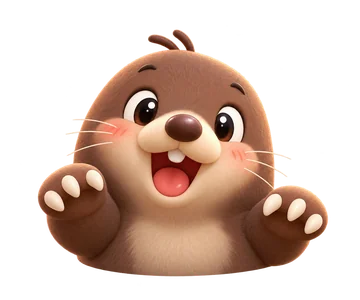
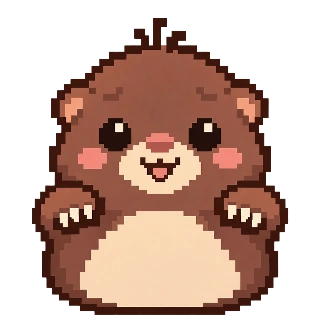
Refresh mole sprite and game covers with pixel artwork

diff --git a/app/src/pages/WhackGame/WhackGame.css b/app/src/pages/WhackGame/WhackGame.css
@@ -65,11 +65,35 @@
   position: relative;
   aspect-ratio: 1 / 1;
   border: none;
-  border-radius: var(--radius-lg);
-  background-color: var(--surface-sunken);
+  border-radius: var(--radius-sm);
+  background-color: #e4edcf;
   overflow: hidden;
   cursor: pointer;
-  box-shadow: inset 0 -6px 14px rgba(20, 27, 43, 0.06);
+  box-shadow: inset 0 -4px 0 #b8ca99;
+  isolation: isolate;
+  padding: 0;
+  touch-action: manipulation;
+}
+.whack__hole::before {
+  content: '';
+  position: absolute;
+  left: 10%;
+  right: 10%;
+  bottom: 11%;
+  height: 26%;
+  background-color: #5e3c30;
+  clip-path: polygon(0 30%, 10% 30%, 10% 15%, 25% 15%, 25% 0, 75% 0, 75% 15%, 90% 15%, 90% 30%, 100% 30%, 100% 75%, 90% 75%, 90% 90%, 10% 90%, 10% 75%, 0 75%);
+}
+.whack__hole::after {
+  content: '';
+  position: absolute;
+  top: 19%;
+  left: 13%;
+  width: 4px;
+  height: 8px;
+  background-color: #a4b882;
+  box-shadow: 4px 4px 0 #a4b882, 8px 0 0 #a4b882;
+  pointer-events: none;
 }
 .whack__hole:disabled {
   cursor: default;
@@ -81,27 +105,32 @@
   left: 0;
   right: 0;
   bottom: 0;
-  height: 20%;
-  background-color: var(--surface-high);
-  border-radius: 50% 50% 0 0 / 100% 100% 0 0;
+  height: 22%;
+  background-color: #b78258;
+  clip-path: polygon(0 35%, 10% 35%, 10% 15%, 25% 15%, 25% 30%, 40% 30%, 40% 40%, 65% 40%, 65% 25%, 85% 25%, 85% 10%, 95% 10%, 95% 35%, 100% 35%, 100% 100%, 0 100%);
+  box-shadow: inset 0 -5px 0 #966443;
   z-index: 2;
+  pointer-events: none;
 }
 
 /* 두더지: 평소엔 흙더미 아래로 완전히 숨고, .up일 때 위로 솟아오름 */
 .whack__mole {
   position: absolute;
   left: 50%;
-  bottom: 14%;
+  bottom: 10%;
+  width: 86%;
+  max-width: 176px;
   transform: translate(-50%, 135%);
   transition: transform 0.14s ease-out;
   z-index: 1;
   line-height: 0;
+  pointer-events: none;
 }
 .whack__mole img {
   display: block;
-  width: 82%;
-  max-width: 160px;
+  width: 100%;
   height: auto;
+  image-rendering: pixelated;
 }
 .whack__hole.up .whack__mole {
   transform: translate(-50%, 0);
@@ -113,7 +142,38 @@
 
 /* 맞혔을 때 반짝 */
 .whack__hole.hit {
-  background-color: var(--accent-soft);
+  background-color: #f3ebc8;
+}
+
+.whack__pop {
+  position: absolute;
+  top: 10%;
+  right: 12%;
+  z-index: 3;
+  color: var(--text-strong);
+  font-family: var(--font-mono);
+  font-weight: 800;
+  font-size: clamp(0.8rem, 3vw, 1.1rem);
+  pointer-events: none;
+  animation: whack-pop 220ms ease-out both;
+}
+
+@keyframes whack-pop {
+  from { transform: translateY(5px); opacity: 0; }
+  to { transform: translateY(-5px); opacity: 1; }
+}
+
+.whack__mascot {
+  display: block;
+  width: 80px;
+  height: 80px;
+  margin: 0 auto 10px;
+  image-rendering: pixelated;
+}
+
+@media (prefers-reduced-motion: reduce) {
+  .whack__mole { transition: none; }
+  .whack__pop { animation: none; }
 }
 
 /* 오버레이(시작/종료) */

diff --git a/app/src/pages/WhackGame/WhackGame.tsx b/app/src/pages/WhackGame/WhackGame.tsx
@@ -128,6 +128,7 @@ export default function WhackGame() {
               <span className="whack__mole">
                 <img src={moleImage} alt="" draggable={false} />
               </span>
+              {hit === i && <span className="whack__pop" aria-hidden="true">+1</span>}
             </button>
           ))}
         </div>
@@ -135,6 +136,7 @@ export default function WhackGame() {
         {status === 'ready' && (
           <div className="whack__overlay">
             <div className="whack__card">
+              <img className="whack__mascot" src={moleImage} alt="" draggable={false} />
               <h3>두더지 잡기</h3>
               <p className="whack__card-desc">{DURATION}초 동안 튀어나오는 두더지를 최대한 많이 클릭하세요.</p>
               <button className="whack__btn whack__btn--primary" onClick={start}>시작하기</button>

diff --git a/app/src/data/covers.ts b/app/src/data/covers.ts
@@ -11,7 +11,7 @@ import coverOmok from '../assets/game-covers/omok.webp'
 import coverBaduk from '../assets/game-covers/baduk.webp'
 import coverBurger from '../assets/game-covers/burger.webp'
 import coverWhack from '../assets/game-covers/whack.webp'
-import coverOddColor from '../assets/game-covers/oddcolor.png'
+import coverOddColor from '../assets/game-covers/oddcolor.webp'
 
 export const GAME_COVERS: Record<string, string> = {
   '2048': cover2048,

diff --git a/app/docs/pixel-assets-2026-11-16.md b/app/docs/pixel-assets-2026-11-16.md
@@ -1,0 +1,23 @@
+# 픽셀 에셋 제작 기록
+
+제작 도구: 내장 `image_gen` 이미지 생성. CLI/API 우회 없이 에셋별로 새 이미지를 생성했다.
+생성 결과를 확인한 뒤 브라우저 Canvas에서 최근접 축소와 WebP 인코딩(품질 0.94)을 적용했다.
+두더지는 생성된 알파 채널을 유지한다. 원본은 도구의 기본 생성 폴더에 보존했다.
+
+| 최종 프로젝트 경로 | 규격 | 용도 |
+| --- | --- | --- |
+| `src/pages/WhackGame/assets/mole.webp` | 320×320, 투명 | 플레이 캐릭터와 시작 화면 |
+| `src/assets/game-covers/whack.webp` | 960×640 | 두더지 잡기 커버 |
+| `src/assets/game-covers/oddcolor.webp` | 960×640 | 다른색 찾기 커버 |
+
+## 두더지 생성 프롬프트
+
+Use case: stylized-concept. Asset type: single transparent sprite for a cute whack-a-mole browser game. Create a NEW, exquisitely cute 16-bit pixel art mole character, front-facing upper body, round cocoa-brown head and plump body, small rounded ears, glossy black pixel eyes with one cream glint each, tiny dusty-rose oval nose, cream muzzle and belly, pink blush cheeks, a tiny happy mouth, two little paws raised at shoulder level with small cream claws, three-pixel hair tuft. Authentic chunky square-pixel clusters and clean stepped dark brown outline, restricted warm palette, 2-3 flat shading levels, no anti-aliasing, no smooth gradients, no 3D. Symmetrical friendly pose, recognizable at 64 pixels. Entire single character centered and filling 85 percent of square canvas with transparent padding around all edges. Character bottom is a rounded torso ending, no hole, no dirt, no scenery, no shadow, no text, no border, no extra sprites. Genuinely transparent alpha background. Output square PNG.
+
+## 두더지 잡기 커버 생성 프롬프트
+
+Use case: stylized-concept. Asset type: landscape 3:2 cover illustration for a whack-a-mole mini game, must read beautifully at 300x150 center crop. Create a NEW premium cute 16-bit pixel art game illustration with a large happy cocoa-brown mole popping out of a stepped oval earth burrow in a tiny mint-and-sage grassy garden. Mole has round chubby head, small ears, glossy black pixel eyes, tiny dusty pink nose, cream muzzle and tummy, rosy cheeks, tiny smiling mouth, small raised paws, three-pixel hair tuft. Smaller mole peeking from another hole at lower right. A friendly toy wooden mallet angled at upper right and a few cream pixel sparkles suggest gameplay without striking anyone. Warm cream sky, tiny pixel clouds, very sparse ivory daisies and grass sprigs. Central main mole is the clear focal point and sits within central 60 percent width and middle 65 percent height, with generous breathing space at corners for UI badges. Refined restrained warm earthy brown, pale sage, ivory palette. Actual crisp pixel clusters, visibly square pixels, stepped silhouettes, 2-3 shade ramps, no antialiasing, no blur, no smooth vector edges, no realistic textures, no 3D rendering. Full bleed opaque background. No text, letters, logos, watermark, frame, or UI.
+
+## 다른색 찾기 커버 생성 프롬프트
+
+Use case: stylized-concept. Asset type: landscape 3:2 cover illustration for a find-the-different-color puzzle mini game. Create a NEW beautiful playful 16-bit pixel art cover, matching a premium cozy pixel arcade collection. Central subject is a neatly front-facing 3 by 3 grid of chunky pixel-edged square tiles, all eight tiles soft indigo/periwinkle and exactly one center-right tile noticeably lighter lavender, resting on a small cream pixel-bordered puzzle board. A large pixel-art magnifying glass diagonally overlaps at lower-right, its glass clearly revealing the lighter tile, with a warm cream handle and dark indigo stepped outline. A few small pixel diamond sparkles emphasize discovery. Light lavender/off-white background, sparse decorative small pixel squares at distant edges. Carefully composed, polished, cute and legible at thumbnail size, central motif within central 60 percent width and middle 65 percent height for 300x150 center crop, generous empty corners for interface badges. Restrained indigo, periwinkle, lavender and cream palette, no rainbow colors. Authentic crisp square pixel clusters, dark indigo stepped outlines, flat 2-3 shade ramps, no antialiasing, no smooth curves, no gradients, no 3D render, no blur. Full bleed opaque backdrop. No text, letters, numbers, logos, watermark, frame, or UI.

diff --git a/app/PROCESS.md b/app/PROCESS.md
@@ -1,5 +1,15 @@
 # PROCESS.md
 
+## 2026-11-16 #20 두더지 픽셀 에셋과 게임 커버 교체
+
+- 기존 두더지 스프라이트, 두 게임 커버, 카드 이미지 비율과 게임 내 표시 방식을 확인했다.
+- 내장 이미지 생성 도구로 투명 배경 픽셀 두더지와 가로형 두더지 잡기 / 다른색 찾기 커버를 제작하고 확인했다.
+- 게임의 두더지 표시 폭을 바로잡고 픽셀 렌더링, 계단형 흙 구멍, 잔디색 바닥과 +1 피드백을 적용했다.
+- 한글 절대 경로를 PowerShell 파이프로 전달할 때 깨지는 문제를 홈 디렉터리 API로 해결하고, 세 이미지를 WebP로 저장했다. 두더지 배경의 투명도(alpha=0)를 확인했다.
+- `mole.webp`(320×320, 16.9KB), `whack.webp`(960×640, 51.3KB), `oddcolor.webp`(960×640, 32.8KB)를 적용했다.
+- `npm run build` 성공. Playwright로 두 커버 로딩, 클릭 시 점수 0→1, 브라우저 오류 없음, 모바일 가로 넘침 없음을 확인했다.
+- PC(1280px) / 모바일(390px) 게임 화면과 두 카드 스크린샷을 시각적으로 확인했다. README·DESIGN 및 `docs/pixel-assets-2026-11-16.md`에 에셋 경로와 생성 프롬프트를 기록했다.
+
 ## 2026-11-06 #19 사활 훈련: 19x19 보드로 전환 + 더 어려운 문제 + 솔버 버그 수정
 
 - **보드를 9x9 → 19x19로 전환**: 전용 미니 엔진 `tsumegoGo.ts`(포획/자충수/패만 구현, AI·계가 없음 — 본 바둑 게임의 `GoGame/go.ts`는 9x9 고정이라 건드리지 않고 분리)를 추가해, 원전 좌표를 자르거나 옮기지 않고 그대로 쓸 수 있게 했다. 모서리에 닿지 않는 중앙 전투형 문제도 쓸 수 있게 됨.

diff --git a/app/README.md b/app/README.md
@@ -73,13 +73,17 @@ app/                          레포의 app/ 하위 = 이 프로젝트 루트
       ├─ OmokGame/            오목 (vs AI, canvas)
       ├─ GoGame/              바둑 (vs AI, 웹워커: go.ts·goAi.ts·goWorker.ts)
       ├─ BurgerGame/          버거 타워 (matter-js, ingredients.ts + assets/ PNG 8종)
-      ├─ WhackGame/           두더지 잡기 (반응 게임, assets/mole.webp)
+      ├─ WhackGame/           두더지 잡기 (반응 게임, assets/mole.webp 투명 픽셀 캐릭터)
       └─ GamePlaceholder/     /game/:id 미등록 id 폴백 안내
 
 ※ 레포 루트에는 추가로: README.md(랜딩) · screenshot.png · .github/workflows/deploy.yml
 ```
 
 ## 미니게임 목록
+
+두더지 잡기와 다른색 찾기의 픽셀 커버는 `src/assets/game-covers/whack.webp`,
+`src/assets/game-covers/oddcolor.webp`이며 `src/data/covers.ts`에서 연결한다.
+생성 프롬프트와 에셋 규격은 [이미지 제작 기록](docs/pixel-assets-2026-11-16.md)에 정리했다.
 
 | 게임 | id | 점수 방식 | 비고 |
 | --- | --- | --- | --- |

diff --git a/app/DESIGN.md b/app/DESIGN.md
@@ -78,6 +78,12 @@
 
 ## 게임 에셋
 
+- 두더지 잡기는 투명 배경의 픽셀 캐릭터(`WhackGame/assets/mole.webp`, 320×320)를 사용한다.
+  캐릭터는 `image-rendering: pixelated`로 표시하고 구멍과 흙은 계단형 CSS 도형으로 맞춘다.
+  게임 내부의 잔디색·흙색은 고유색으로 사용하며 공통 버튼과 HUD는 기존 테마를 유지한다.
+- 두더지 잡기 / 다른색 찾기 커버는 960×640 WebP 픽셀 일러스트다. 글자는 이미지에 넣지 않고
+  카드 제목으로 제공하며, 중앙 크롭에서도 주요 캐릭터와 색상 타일이 보이도록 구성한다.
+
 - 아이콘은 직접 그린 SVG(글리프) 또는 자체 생성 SVG data URI(돌깨기·수박)만 사용한다.
 - 버거 타워 재료는 스프라이트 시트를 재료별로 **잘리지 않게 바운딩박스 크롭**한 PNG를 사용한다
   (`pages/BurgerGame/assets/`).
